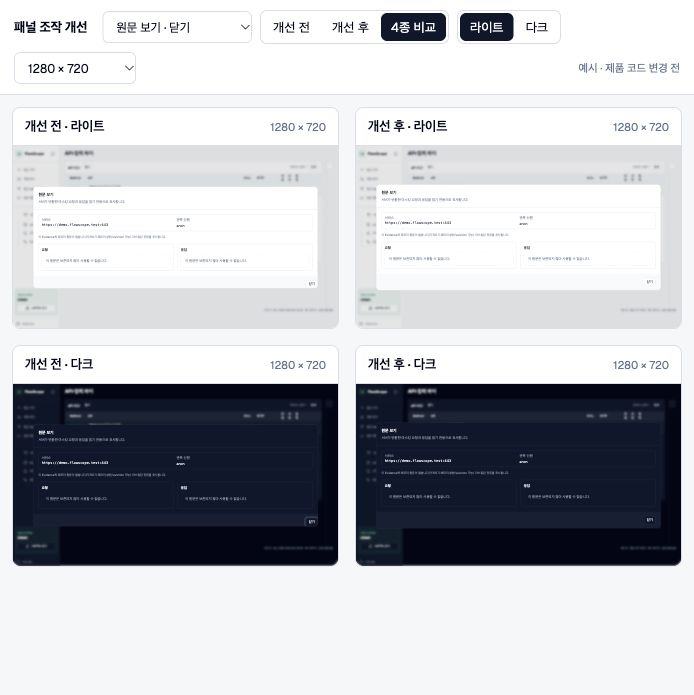
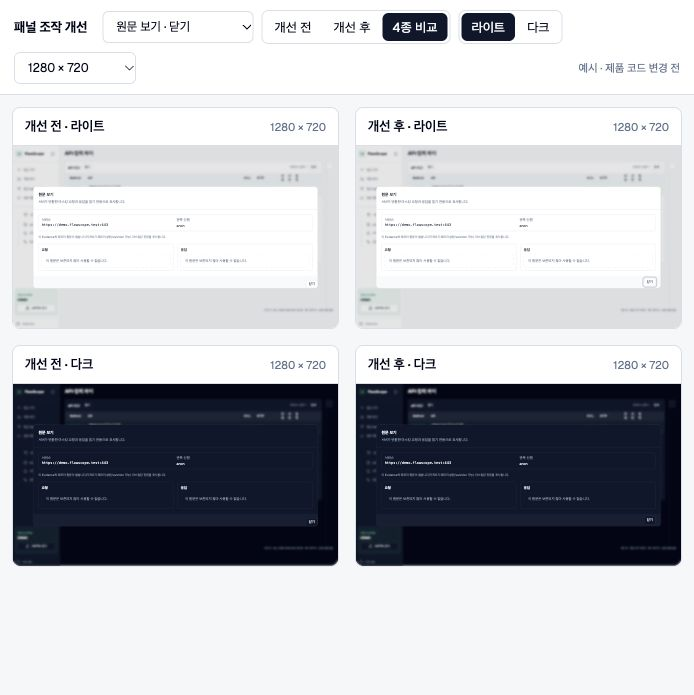
docs: unify all dialog footer spacing in review mockups
Audit four DialogFooter, five AlertDialogFooter and two custom account footer usages. Preview 8px vertical padding across all eleven, preserving button dimensions, horizontal insets and existing actions. Raw view also resets negative margins. Proposed implementation uses shared footer defaults plus existing local overrides, avoiding repeated per-dialog changes. Standalone mockups inspected; product implementation and full verification remain pending.

diff --git a/docs/panel-interaction-mockup/panels.css b/docs/panel-interaction-mockup/panels.css
@@ -17,7 +17,7 @@
 .raw-columns h3{font-size:14px;font-weight:550;margin-bottom:10px}
 .raw-columns p{padding:16px;border:1px dashed var(--border);border-radius:6px;color:var(--muted-foreground)}
 .raw-dialog.before footer{padding:16px;margin:0 -16px -16px}
-.raw-dialog.after footer{margin:0;padding:16px 20px}
+.raw-dialog.after footer{margin:0;padding:8px 20px}
 .confirm-dialog{width:384px;padding:16px;display:grid;gap:16px}
 .confirm-dialog footer{padding:16px;margin:0 -16px -16px}
 .confirm-dialog.account-delete.before footer{padding:10px 16px}
@@ -43,3 +43,12 @@
 .zap-new .zap-table input{width:16px;height:16px}
 .zap-new .zap-table .account-cell{gap:12px}
 .zap-new .zap-table .actioncell button{height:28px;width:128px;font-size:12.8px}
+.audit-note{font-size:12px;color:var(--muted-foreground);line-height:1.5;margin:8px 0 16px}
+.footer-audit{display:grid;grid-template-columns:repeat(2,minmax(0,1fr));gap:12px 20px}
+.footer-specimen h2{display:flex;align-items:center;font-size:12px;font-weight:500;margin-bottom:6px}
+.footer-specimen h2 small{margin-left:auto;font-size:11px}
+.footer-clip{overflow:hidden;border:1px solid var(--border);border-radius:0 0 12px 12px}
+.audit-footer{display:flex;align-items:center;justify-content:flex-end;gap:8px;background:color-mix(in srgb,var(--muted) 50%,transparent)}
+.audit-footer button{height:32px;font-size:14px;padding:0 10px}
+.audit-footer .destructive-action{border-color:transparent;background:color-mix(in srgb,var(--destructive) 10%,transparent);color:var(--destructive)}
+.audit-footer.clipped-footer{margin:0 -16px -16px}

diff --git a/docs/panel-interaction-mockup/README.md b/docs/panel-interaction-mockup/README.md
@@ -7,8 +7,21 @@
 1. API 상세: 이미 선택된 항목의 패널을 접은 뒤 상세 보기를 다시 눌러도 펼쳐지지 않는 상태를 재현한다. 개선 후에는 상세 보기 클릭으로 선택과 패널 열기를 함께 수행한다. 패널을 다시 접고 같은 행을 눌러도 다시 열린다.
 2. 사이드바: 펼친 상태의 부가 기능 그룹은 유지한다. 접힌 상태에는 API·입력 차이, 교차 신원 검증, 관측 기록의 아이콘과 메뉴명 툴팁을 직접 제공한다. 전체 사이드바를 펼치지 않고 이동할 수 있다.
 3. ZAP: LLM 계정 영역과 동일하게 제목 줄은 12px 글자·좌우 12px/상하 8px 여백·기본 배경으로 표시한다. 펼친 본문에는 12px 안쪽 여백과 독립된 계정 표를 둔다. 표 머리글은 36px 높이·12px 글자로 LLM과 맞춘다. 제목 줄 전체를 클릭·키보드 조작할 수 있다. 선택 계정 요약과 기존 ZAP 설정 버튼을 유지한다. 표의 체크박스·설정 버튼은 접기 동작과 독립적이다.
-4. 원문 보기: 본문 padding이 0인 창에 공통 DialogFooter의 음수 margin이 적용돼 닫기 버튼이 오른쪽 아래 테두리에 붙는다. 이 창의 footer에서만 margin을 0으로 재정의하고 좌우 20px·상하 16px 여백을 둔다. 오른쪽 아래 위치와 닫기 동작은 유지한다.
-5. 계정·프로젝트 삭제: 버튼 높이 32px와 좌우 여백 16px, 버튼 사이 간격 8px는 유지한다. footer 상하 여백만 각각 8px로 통일한다(현재 계정 10px, 프로젝트 16px). 삭제 확인 문구·확인 단계·삭제 로직은 변경하지 않는다. 공통 AlertDialogFooter 기본값을 변경하지 않고 요청한 삭제 창에만 적용한다.
+4. 원문 보기: 본문 padding이 0인 창에 공통 DialogFooter의 음수 margin이 적용돼 닫기 버튼이 오른쪽 아래 테두리에 붙는다. 이 창의 footer에서만 margin을 0으로 재정의하고 좌우 20px·상하 8px 여백을 둔다. 오른쪽 아래 위치와 닫기 동작은 유지한다.
+5. 하단 버튼 영역: `DialogFooter` 사용 4곳, `AlertDialogFooter` 사용 5곳, 계정 등록·설정의 독립 footer 2곳을 확인했다. 모두 상하 여백 8px로 맞춘다. 공통 컴포넌트는 `p-4` 대신 `px-4 py-2`, 독립 계정 footer는 `py-3` 대신 `py-2`, 계정 삭제의 `py-2.5` override는 제거한다. Request Lab의 sticky·margin 재정의는 유지한다. 버튼 높이 32px, 기존 좌우 여백, 8px 버튼 간격, 확인 문구·확인 단계·동작은 보존한다.
+
+| 적용 대상 | 현재 상하 여백 | 개선 후 |
+| --- | --- | --- |
+| 원문 보기 | 16px + 음수 margin으로 일부 잘림 | 8px, 음수 margin 제거 |
+| Request Lab | 16px | 8px |
+| XML 가져오기 | 16px | 8px |
+| 새 프로젝트 | 16px | 8px |
+| 계정 등록·계정 설정 | 각각 12px | 각각 8px |
+| 계정 삭제 | 10px | 8px |
+| 프로젝트 삭제·현재 프로젝트 전환 후 삭제 | 각각 16px | 각각 8px |
+| 기록 비우기·저장하지 않고 닫기 | 각각 16px | 각각 8px |
+
+`screen=footer-audit`은 위 11곳의 하단 버튼 영역만 재구성한 비교표다. 각 창 전체를 재현한 제품 화면은 아니다. 실제 프로젝트/계정 생성·삭제·전송·가져오기는 실행하지 않는다. 본문 정보·입력·일반 페이지/카드 여백은 이번 범위에 포함하지 않는다.
 
 데스크톱 1280×720 / 1920×1080, 전후 라이트·다크 4종 비교, 상세 열기·접기, 메뉴 이동, 계정 접기·선택 동작을 제공한다. 모바일은 작업 범위가 아니다. 전체 빌드 및 실제 제품 화면 검증은 사용자가 직접 진행한다.
 
